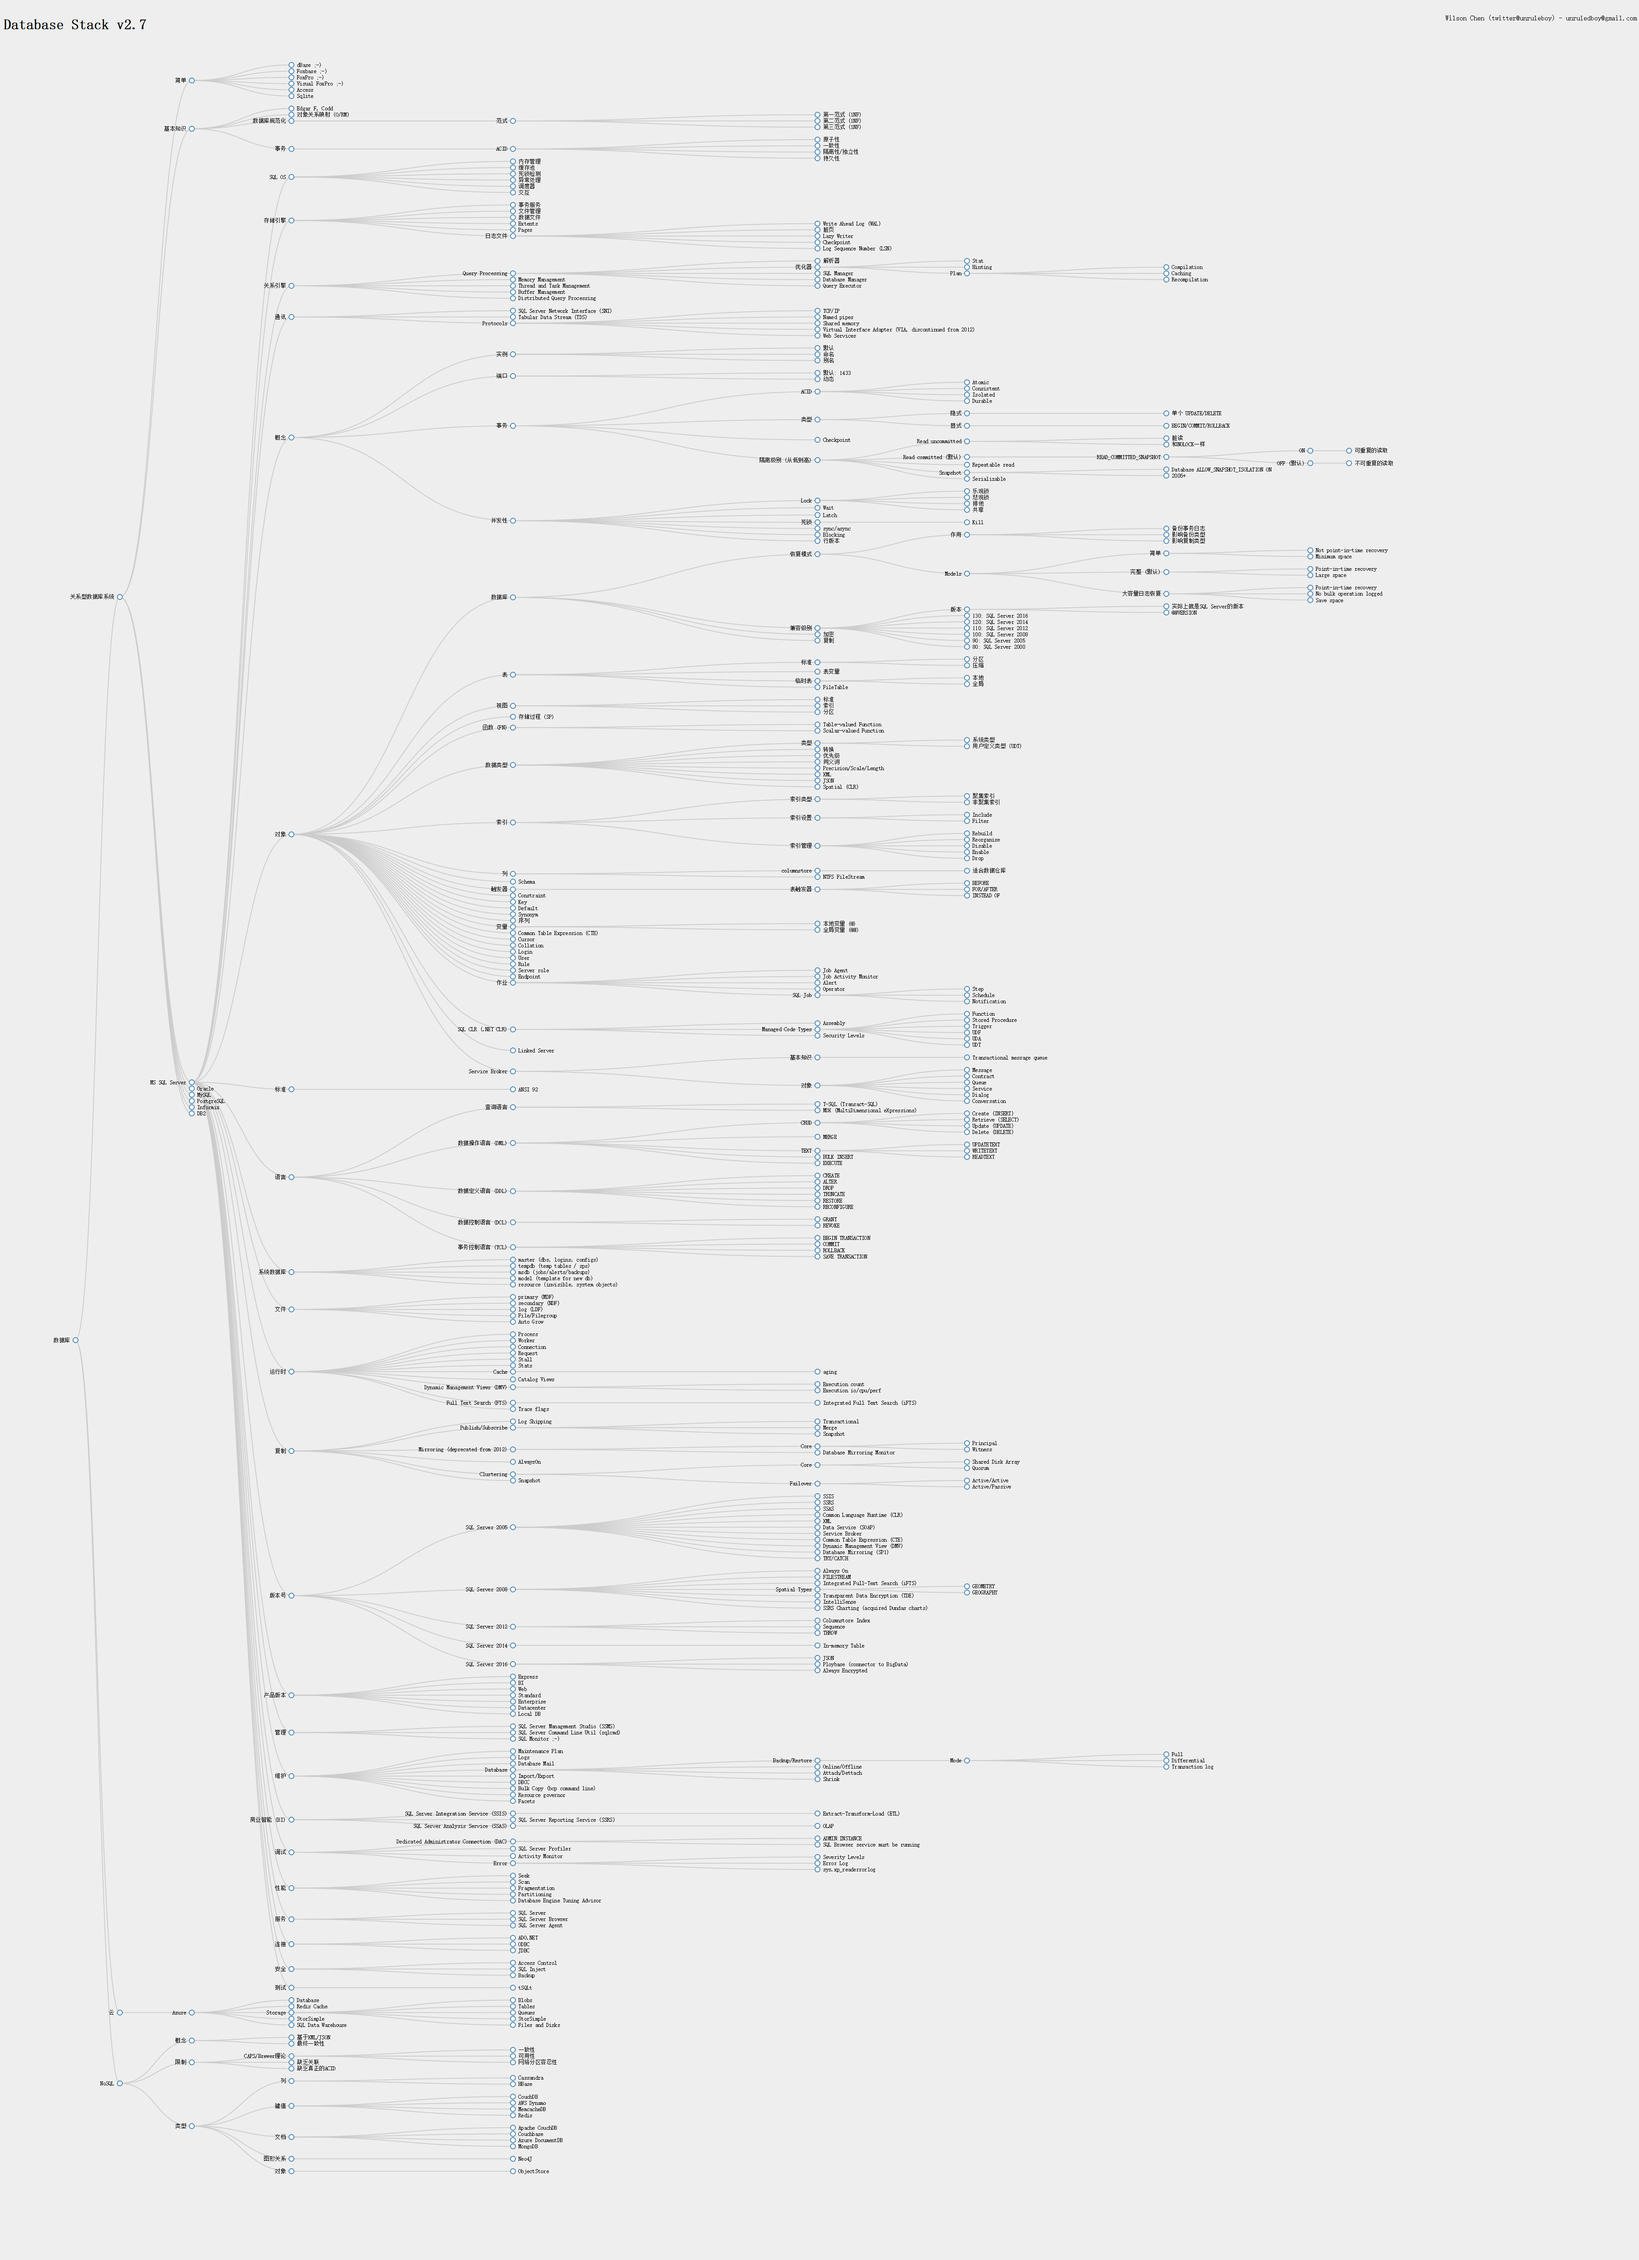
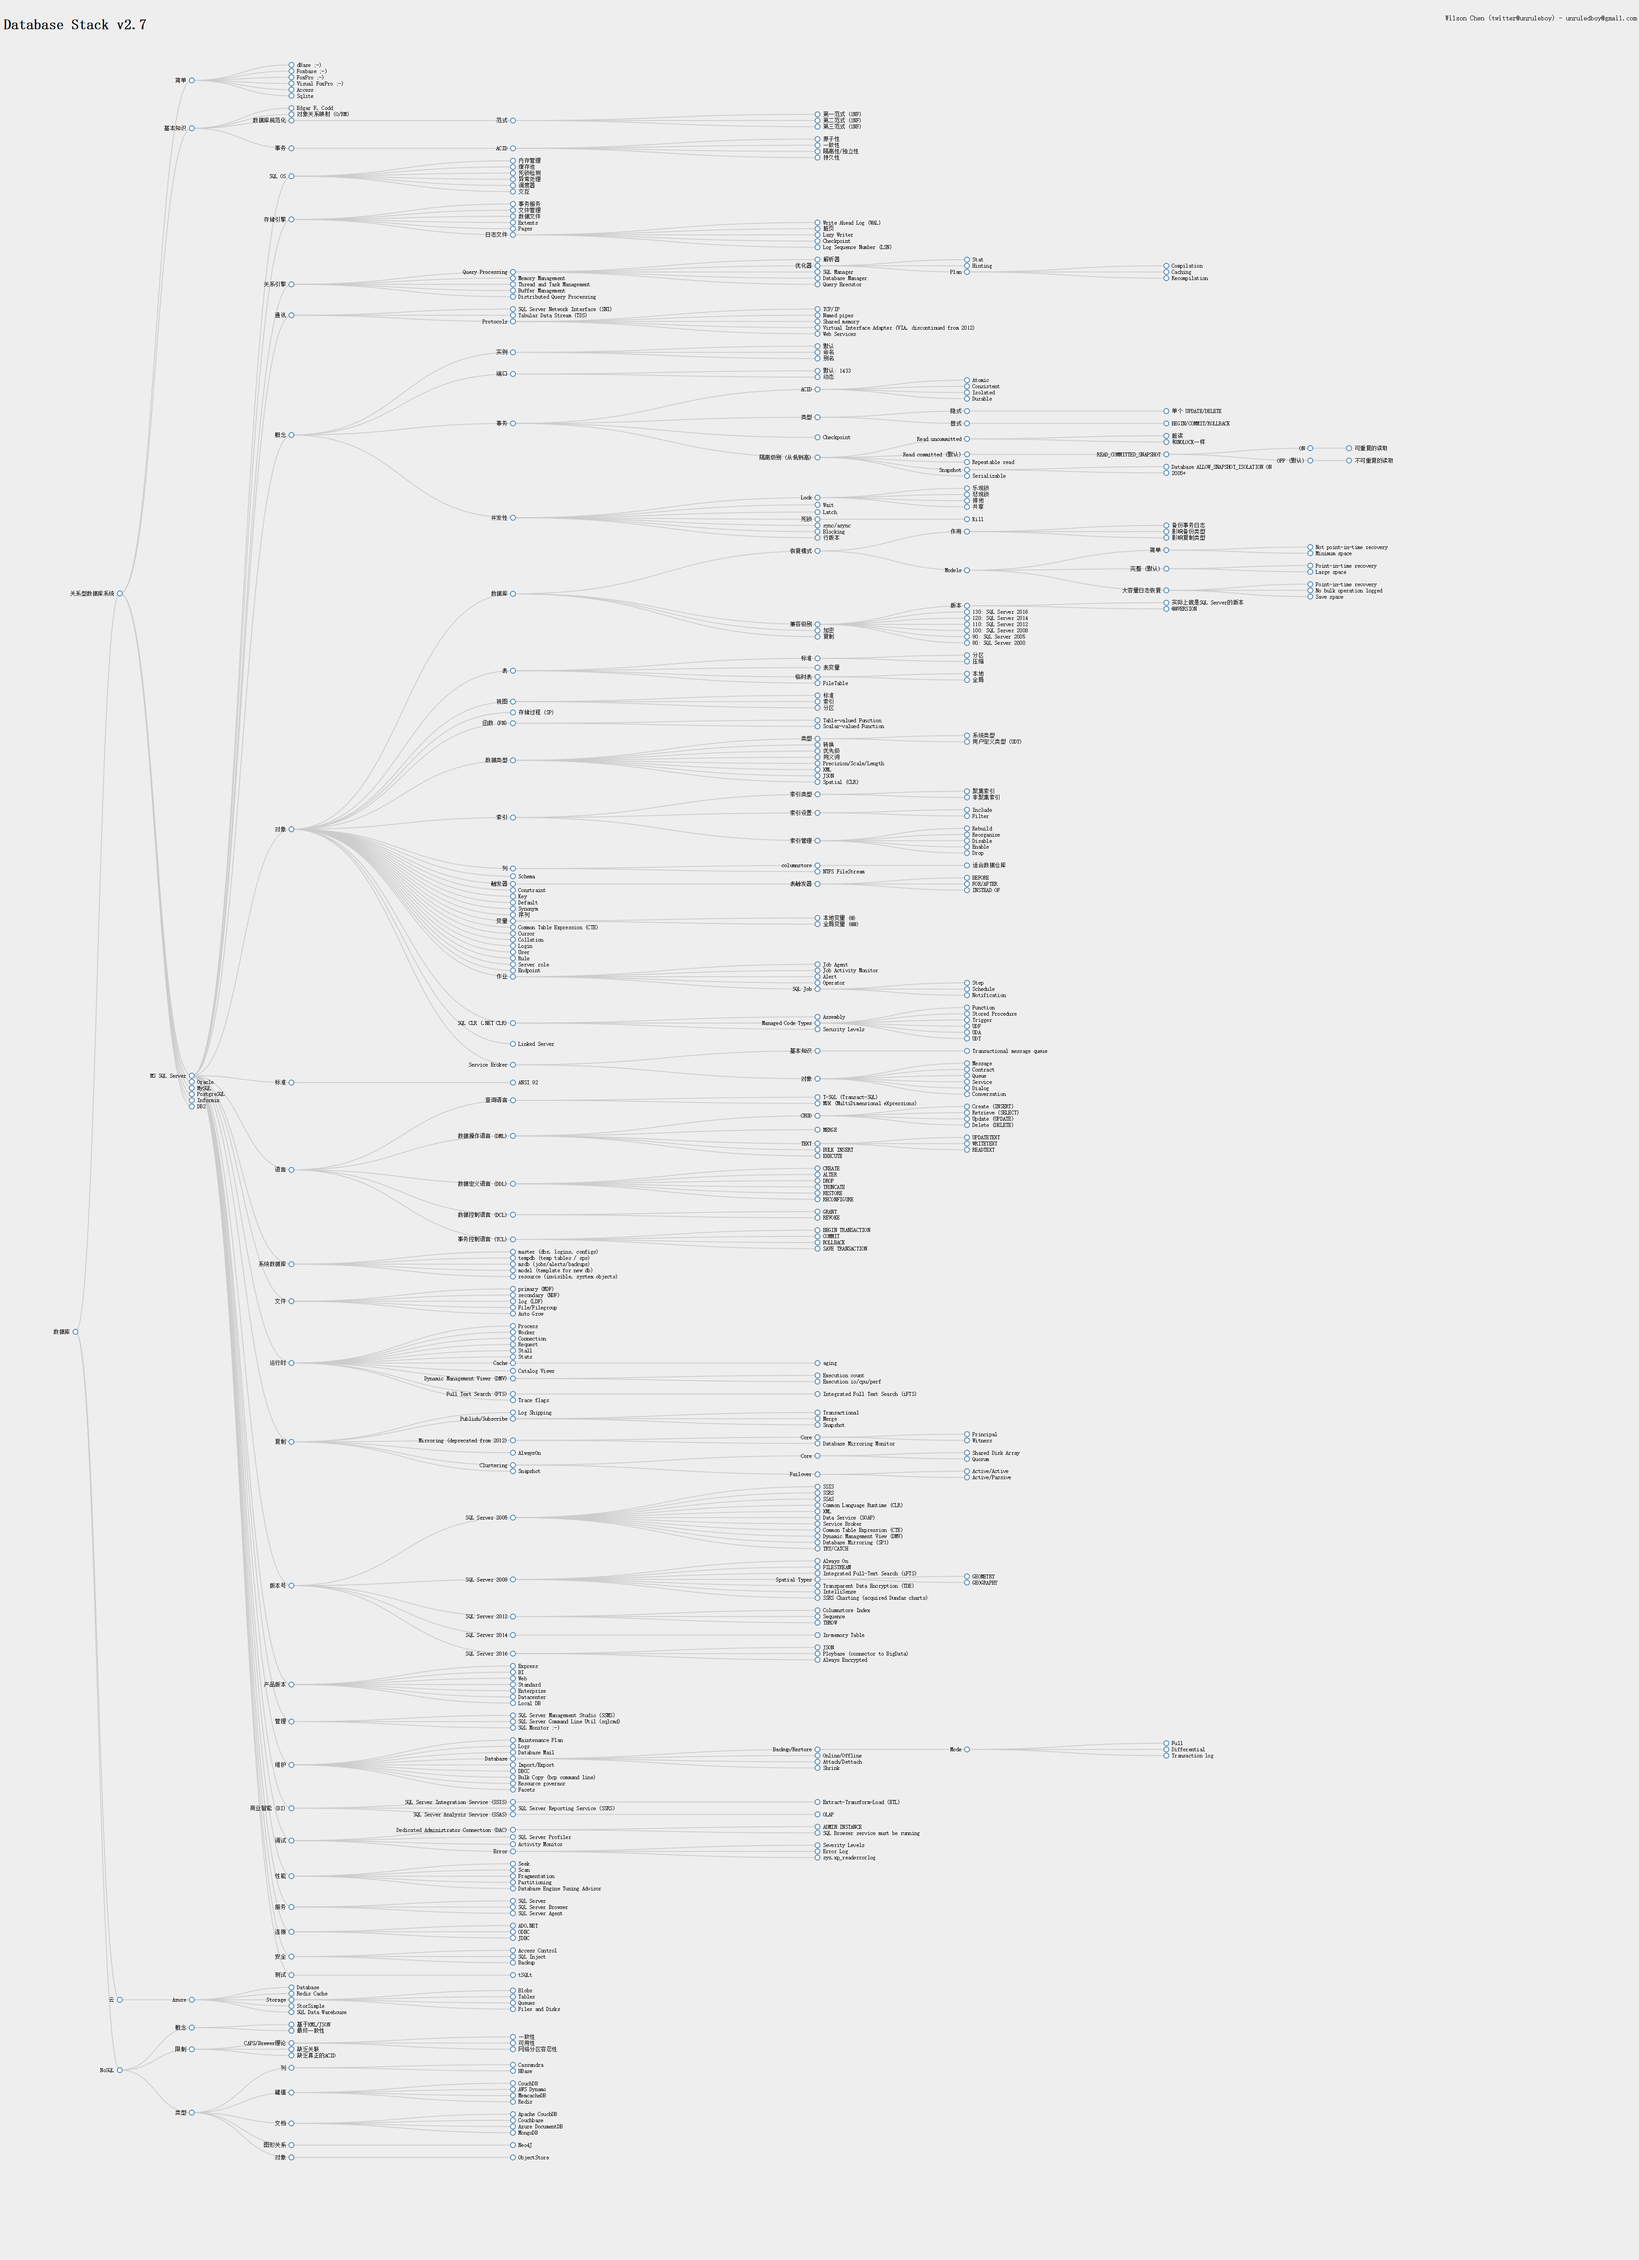
removed dup items

diff --git a/README.zh-cn.md b/README.zh-cn.md
@@ -478,7 +478,6 @@ https://rawgit.com/unruledboy/DatabaseStack/master/ux/DatabaseStack.htm?locale=z
 				- Blobs
 				- Tables
 				- Queues
-				- StorSimple
 				- Files and Disks
 			- StorSimple
 			- SQL Data Warehouse

diff --git a/README.md b/README.md
@@ -475,7 +475,6 @@ https://rawgit.com/unruledboy/DatabaseStack/master/ux/DatabaseStack.htm
 				- Blobs
 				- Tables
 				- Queues
-				- StorSimple
 				- Files and Disks
 			- StorSimple
 			- SQL Data Warehouse
